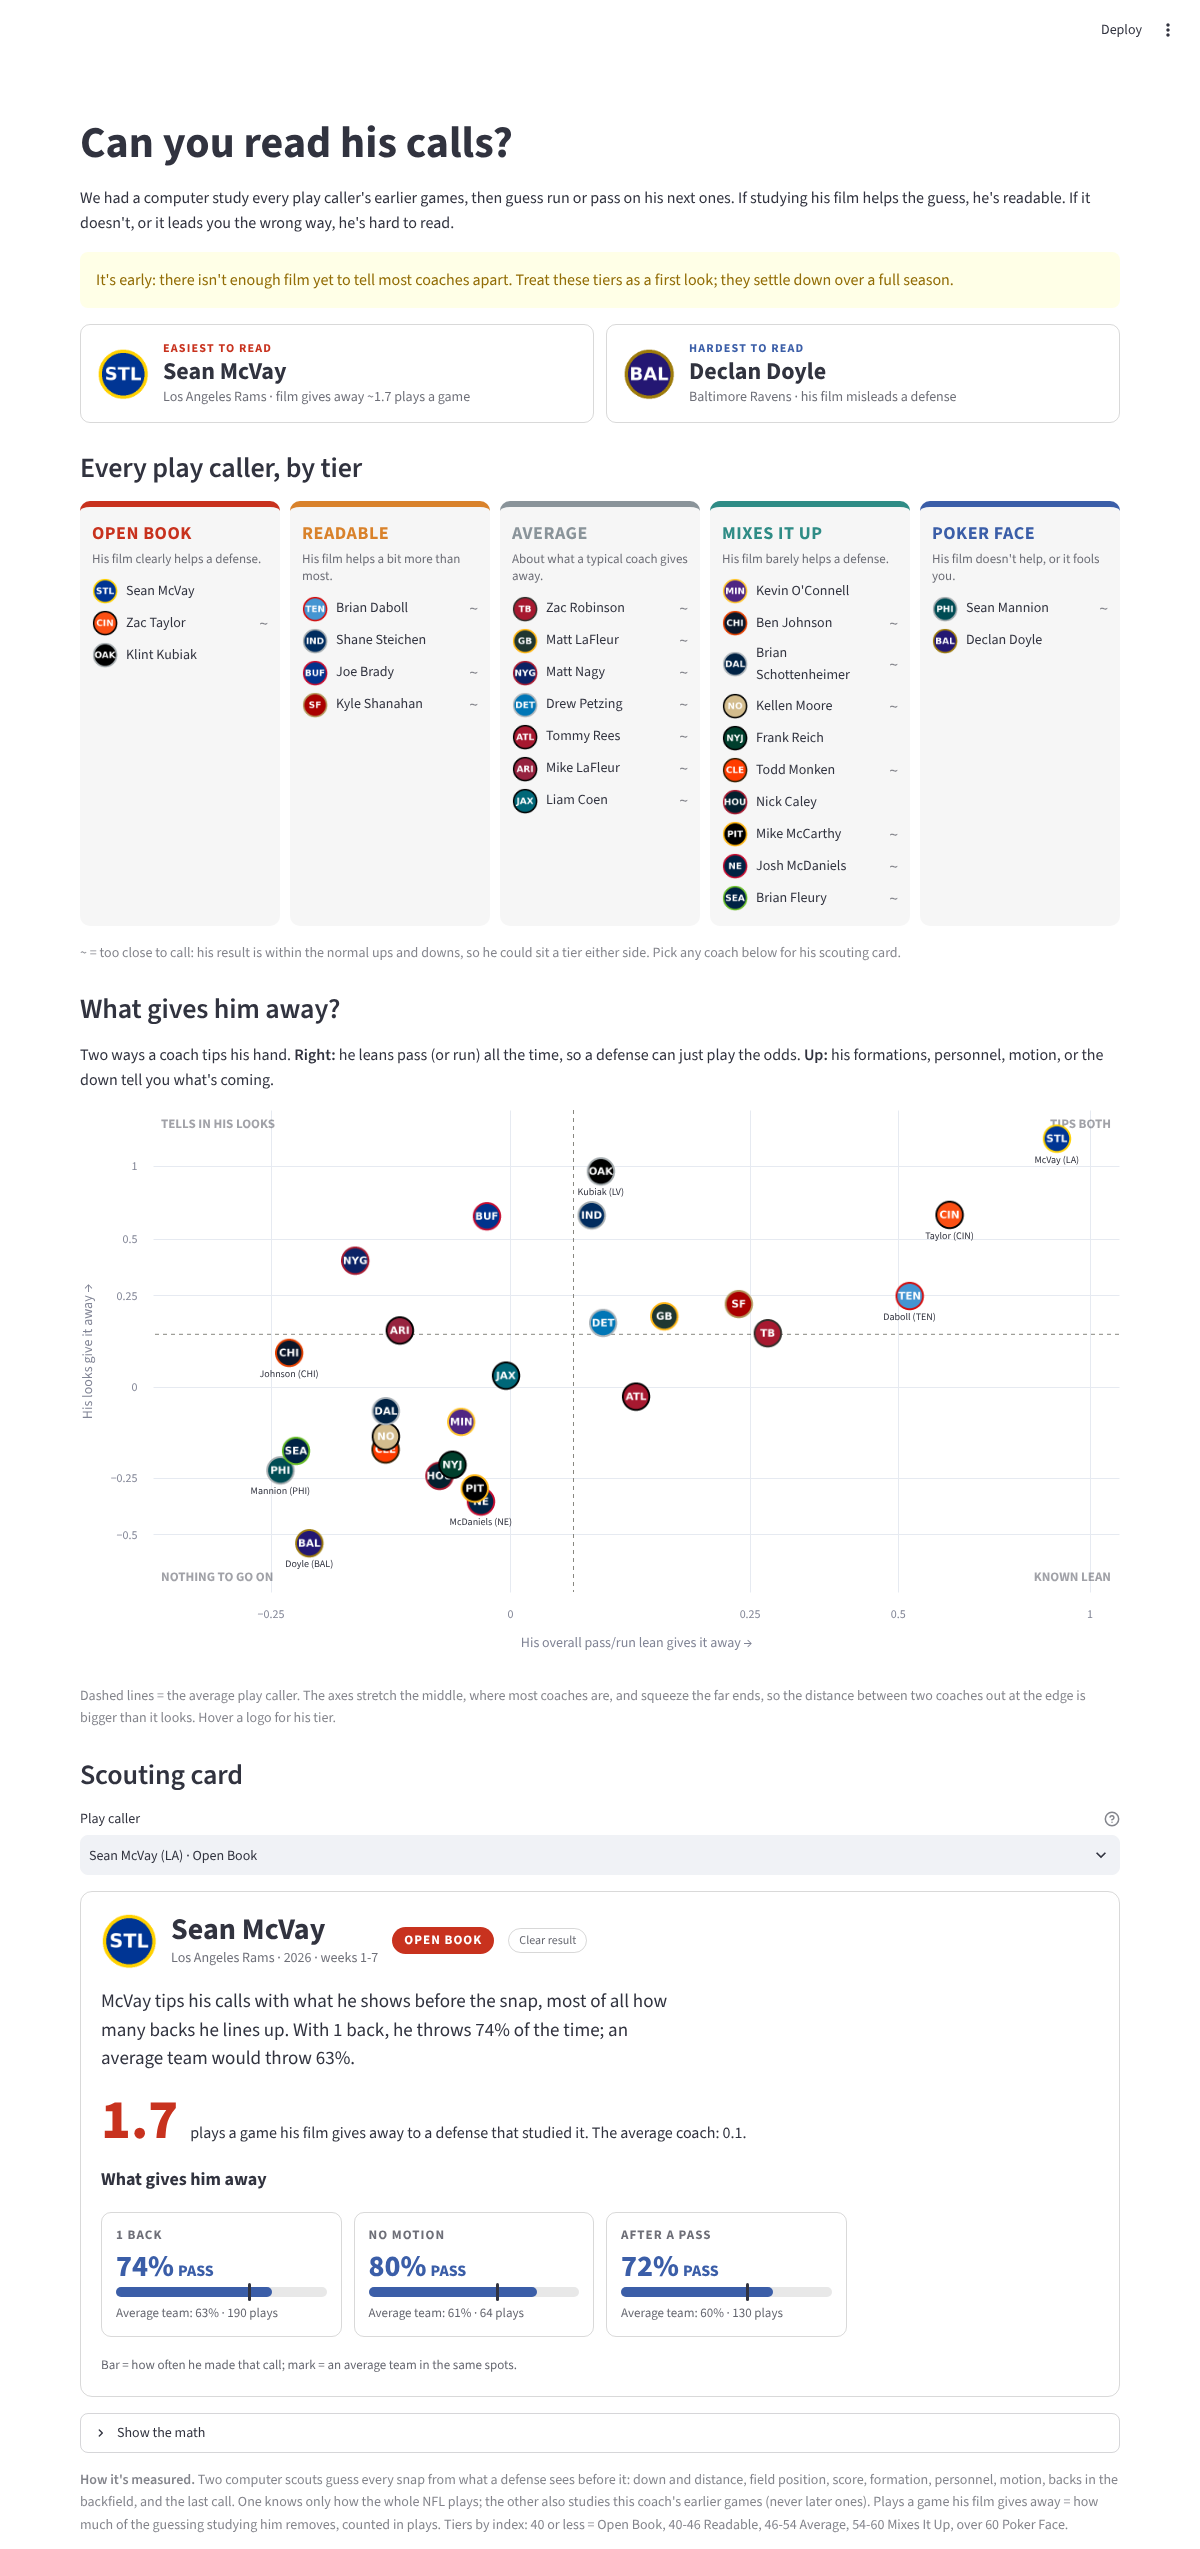
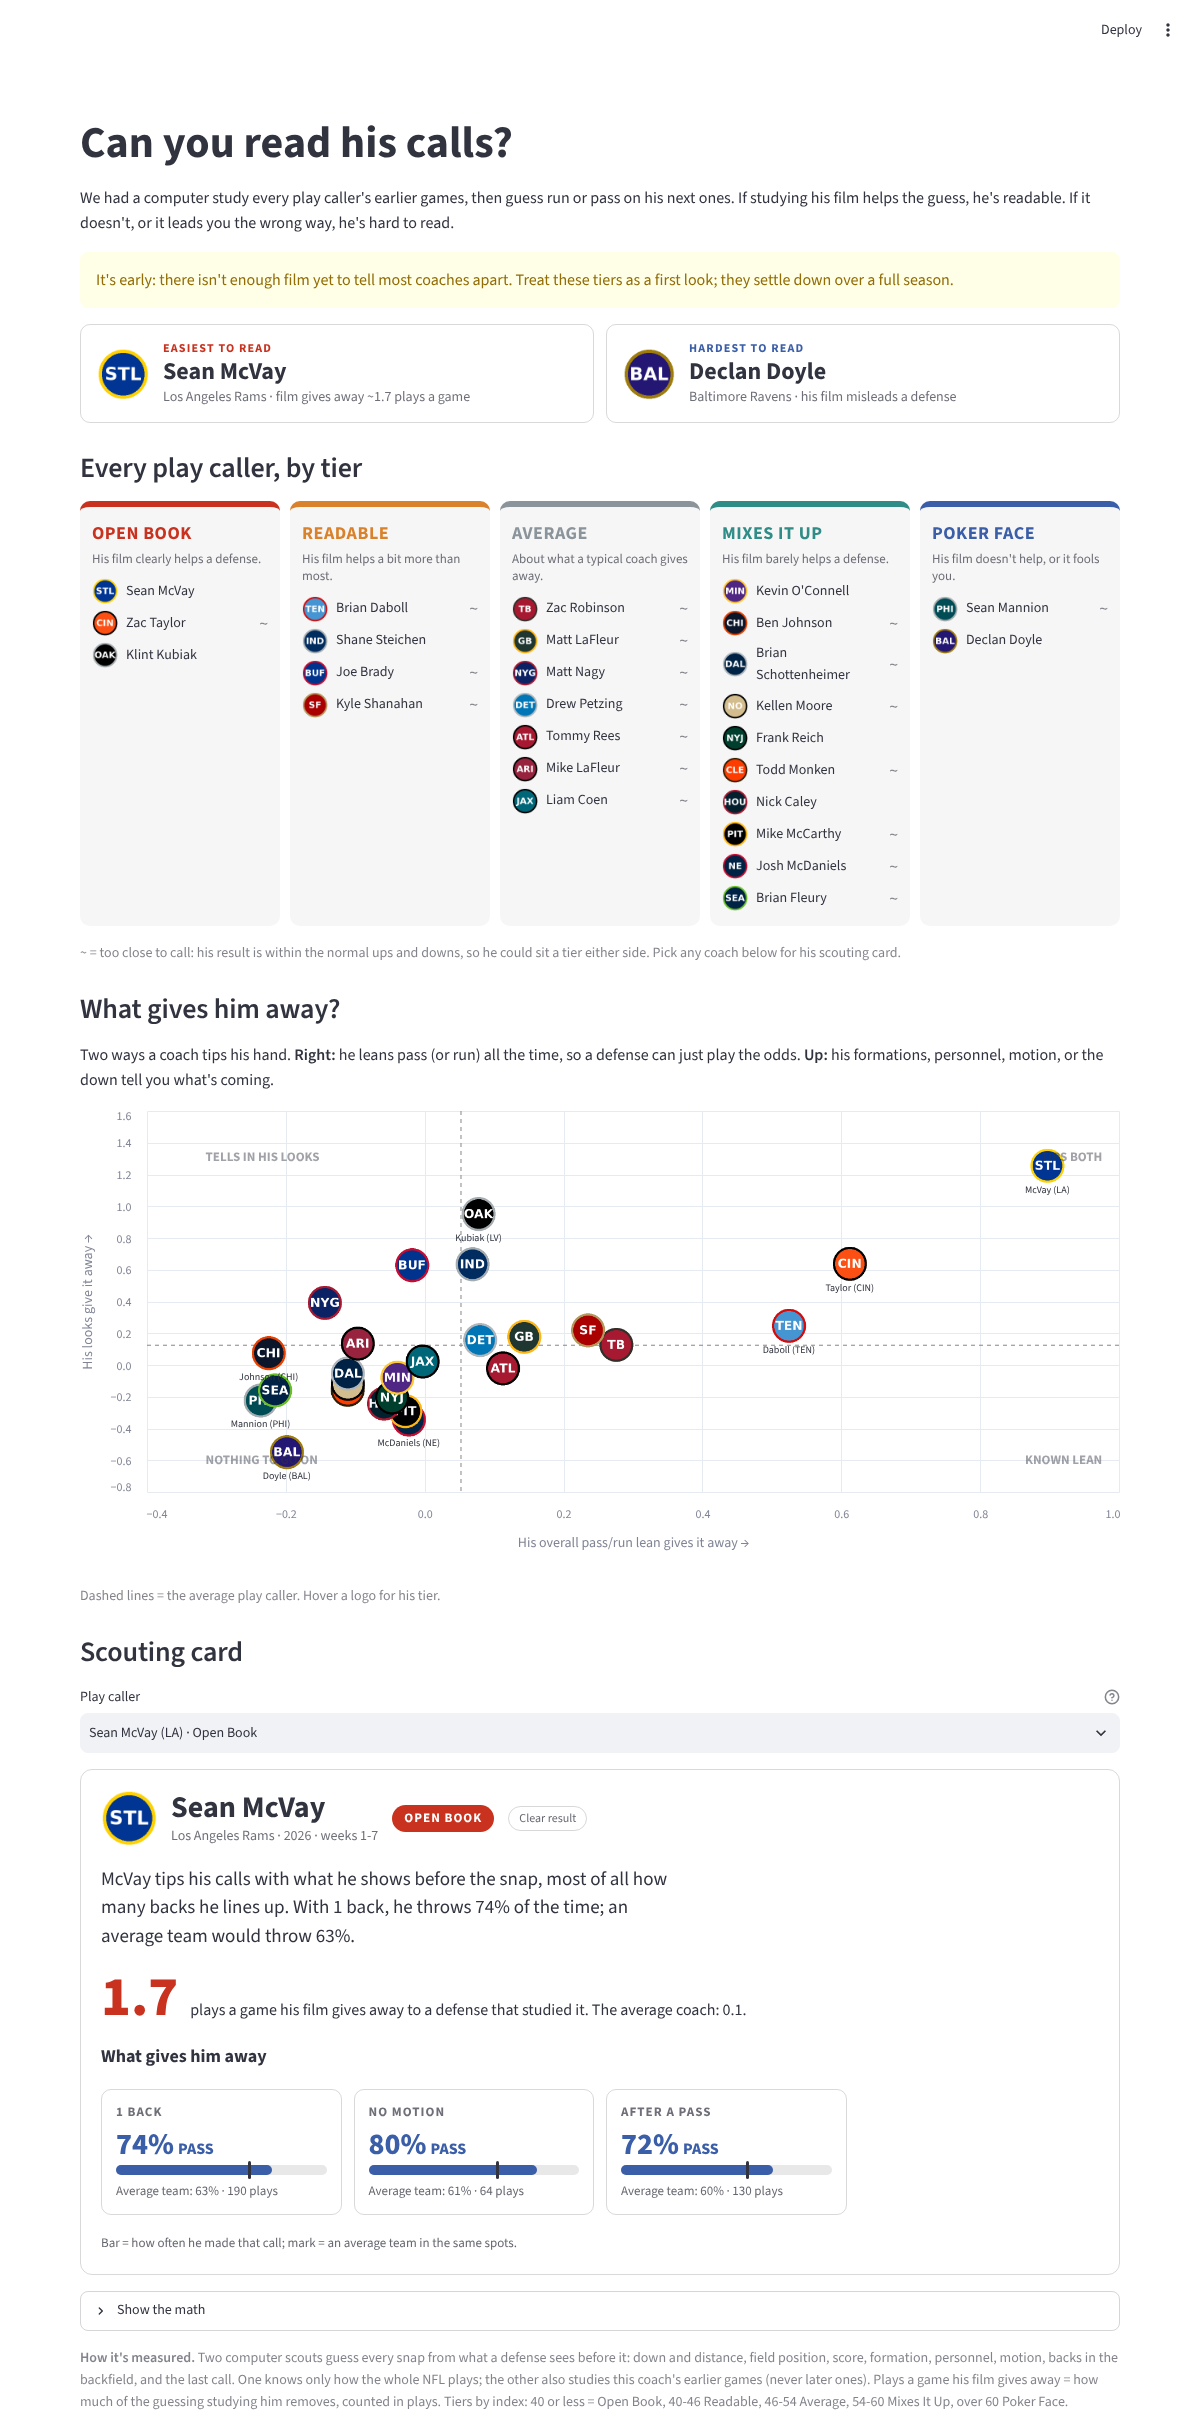
Revert the four-box axis change
Back to linear axes: the large distance between the most readable coaches
and the pack is the point of the chart, and the stretched axes hid it.

This reverts commit 382ebd4.

Claude-Session: https://claude.ai/code/session_01Aqe4Ce9chTpUW4ZyLj4MPT

diff --git a/page_unpredictability.py b/page_unpredictability.py
@@ -474,7 +474,6 @@ def shade_index_balance(col):
 
 
 # ---- At a glance view -----------------------------------------------------------------------------------------
-FOUR_BOX_LINEAR = 0.3   # four-box axes are linear within about ±this many bits per 100 snaps, compressed beyond
 TIER_COLORS = {"Open Book": "#C8321E", "Readable": "#D9822B", "Average": "#8A949A", "Mixes It Up": "#2F8C86",
                "Poker Face": "#3B5EA8"}
 GLANCE_CSS = """<style>
@@ -546,44 +545,21 @@ def board_html(g: pd.DataFrame) -> str:
 
 
 def four_box(g: pd.DataFrame) -> alt.LayerChart:
-    """Lean part (across) vs look part (up), with the four corners named. Most coaches sit near 0 on both and a few sit
-    far out, so both axes use a symmetric log scale: linear near 0 (the pack spreads out), compressed far from it (the
-    outliers stay on the chart without squeezing everyone else into a corner)."""
+    """Lean part (across) vs look part (up), with the four corners named."""
     x, y = "Lean part", "Look part"
-    g = g.dropna(subset=[x, y])
-    pad = lambda s: (s.max() - s.min()) * 0.18 or 0.1   # room for the corner names beyond the outermost logos
-    x0, x1, y0, y1 = g[x].min() - pad(g[x]), g[x].max() + pad(g[x]), g[y].min() - pad(g[y]), g[y].max() + pad(g[y])
-    ticks = [-2, -1, -0.5, -0.25, 0, 0.25, 0.5, 1, 2, 3, 4, 6]
-    sx = alt.Scale(type="symlog", constant=FOUR_BOX_LINEAR, domain=[x0, x1], nice=False)
-    sy = alt.Scale(type="symlog", constant=FOUR_BOX_LINEAR, domain=[y0, y1], nice=False)
-    ax = lambda lo, hi, title: alt.Axis(values=[t for t in ticks if lo <= t <= hi], format=".2~f", title=title, grid=True)
-    # Name only the points away from the pack; hover names the rest.
-    rank = lambda s: s.rank(pct=True)
-    g = g.assign(show_label=(rank(g[x]) - 0.5).abs().ge(0.4) | (rank(g[y]) - 0.5).abs().ge(0.4))
-    base = alt.Chart(g).encode(
-        x=alt.X(f"{x}:Q", scale=sx, axis=ax(x0, x1, "His overall pass/run lean gives it away →")),
-        y=alt.Y(f"{y}:Q", scale=sy, axis=ax(y0, y1, "His looks give it away →")), tooltip=TIP)
-    mx, my = float(g[x].mean()), float(g[y].mean())
-    rules = [alt.Chart(pd.DataFrame({"v": [mx]})).mark_rule(color="#888780", strokeDash=[4, 4]).encode(
-                 x=alt.X("v:Q", scale=sx)),
-             alt.Chart(pd.DataFrame({"v": [my]})).mark_rule(color="#888780", strokeDash=[4, 4]).encode(
-                 y=alt.Y("v:Q", scale=sy))]
+    pad_x, pad_y = (g[x].max() - g[x].min()) * 0.08 or 0.01, (g[y].max() - g[y].min()) * 0.08 or 0.01
+    x0, x1, y0, y1 = g[x].min() - pad_x, g[x].max() + pad_x, g[y].min() - pad_y, g[y].max() + pad_y
+    chart = logo_scatter(g, x, y, "His overall pass/run lean gives it away →", "His looks give it away →", ".1f", ".1f",
+                         ref=(float(g[x].mean()), float(g[y].mean())))
     corners = pd.DataFrame({"x": [x1, x0, x1, x0], "y": [y1, y1, y0, y0], "align": ["right", "left", "right", "left"],
                             "base": ["top", "top", "bottom", "bottom"],
                             "t": ["TIPS BOTH", "TELLS IN HIS LOOKS", "KNOWN LEAN", "NOTHING TO GO ON"]})
     labels = [alt.Chart(corners.iloc[[i]]).mark_text(align=r.align, baseline=r.base, dx=-8 if r.align == "right" else 8,
                                                      dy=8 if r.base == "top" else -8, fontSize=13, fontWeight="bold",
                                                      opacity=0.45, color=cm.theme_ink())
-              .encode(x=alt.X("x:Q", scale=sx), y=alt.Y("y:Q", scale=sy), text="t:N")
+              .encode(x=alt.X("x:Q", scale=alt.Scale(zero=False)), y=alt.Y("y:Q", scale=alt.Scale(zero=False)), text="t:N")
               for i, r in enumerate(corners.itertuples())]
-    points = [
-        base.transform_filter("datum.logo == ''").mark_circle(size=380).encode(
-            color=alt.Color("color:N", scale=None), opacity=alt.Opacity("opacity:Q", scale=None)),
-        base.mark_image(width=30, height=30).encode(url="logo:N", opacity=alt.Opacity("opacity:Q", scale=None)),
-        base.transform_filter("datum.show_label").mark_text(dy=21, fontSize=10, color=cm.theme_ink()).encode(
-            text="label:N", opacity=alt.Opacity("opacity:Q", scale=None)),
-    ]
-    return alt.layer(*rules, *labels, *points).properties(height=560)
+    return alt.layer(chart, *labels)
 
 
 def card_html(r: pd.Series, tl: list[dict], ml: list[dict], avg_given: float, season: int) -> str:
@@ -638,9 +614,7 @@ def render_glance(ranked: pd.DataFrame, d_snaps: pd.DataFrame, clues: list[str],
     st.markdown("Two ways a coach tips his hand. **Right:** he leans pass (or run) all the time, so a defense can just "
                 "play the odds. **Up:** his formations, personnel, motion, or the down tell you what's coming.")
     st.altair_chart(four_box(g), width="stretch")
-    st.caption("Dashed lines = the average play caller. The axes stretch the middle, where most coaches are, and squeeze "
-               "the far ends, so the distance between two coaches out at the edge is bigger than it looks. Hover a "
-               "logo for his tier.")
+    st.caption("Dashed lines = the average play caller. Hover a logo for his tier.")
 
     st.subheader("Scouting card")
     order = g.sort_values("Unpredictability index")
